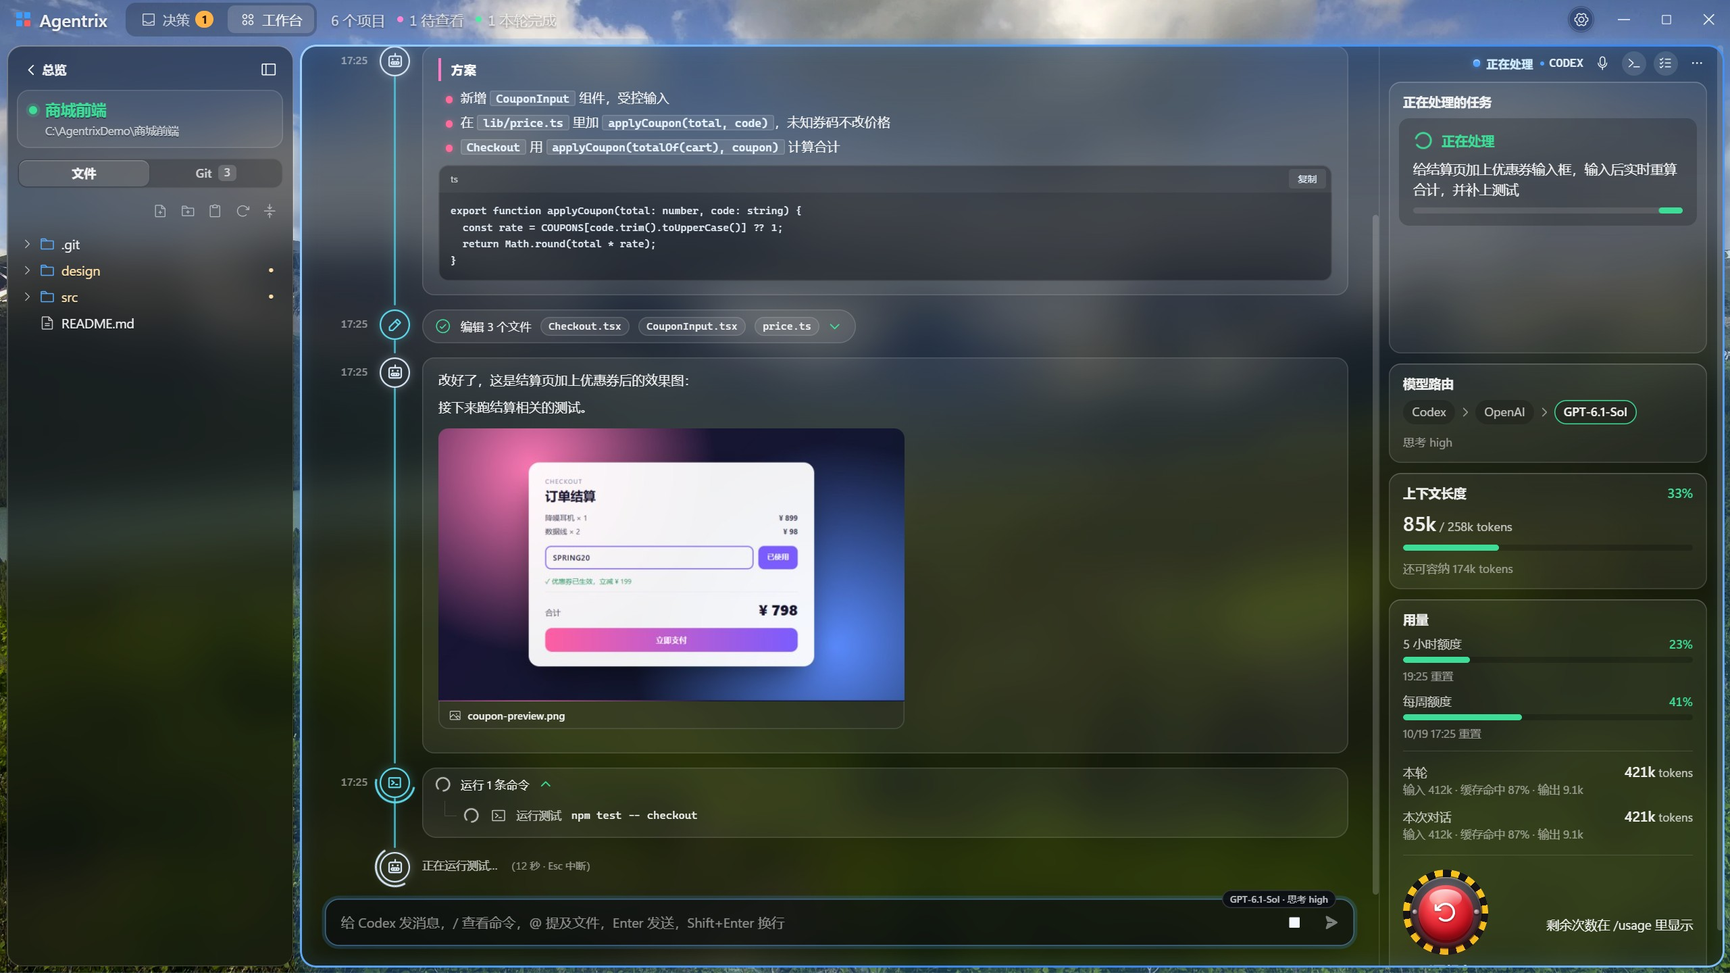
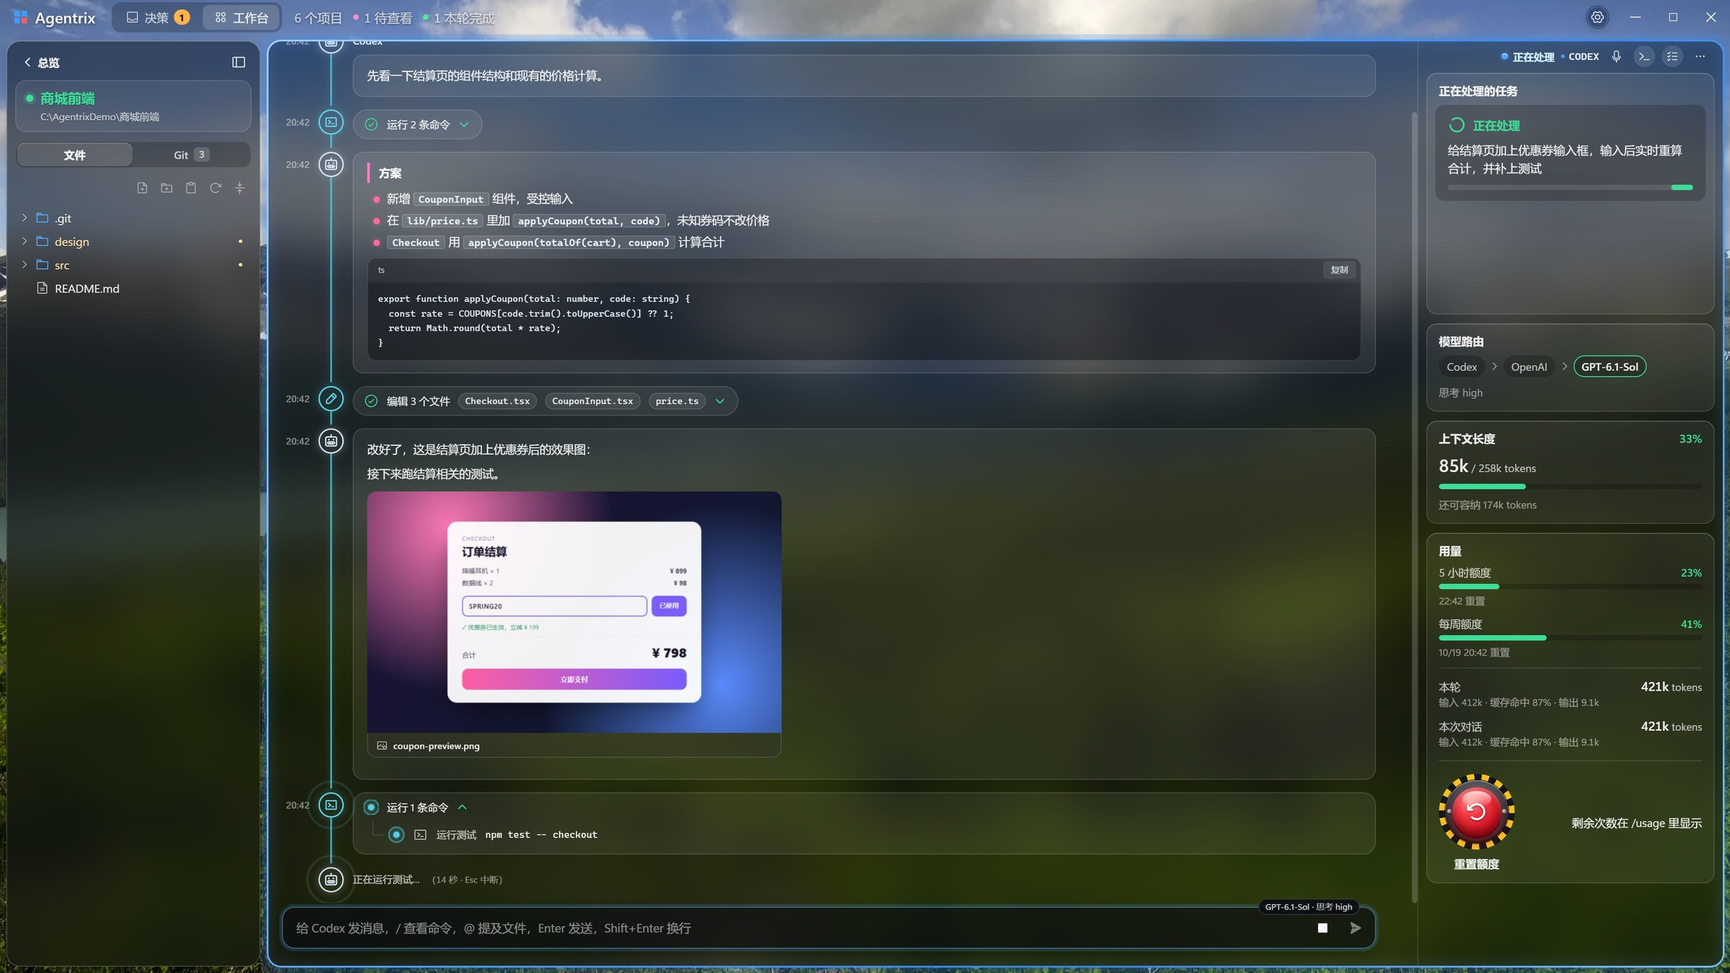
Release 1.2.15: a balanced reading column, running nodes that bloom and ripple, items that hop on hover
- The reading column is balanced: the time column fits its text and the gaps are tighter, the right side has more
  room (cards 95px from the left and 46px from the right instead of 120px and 24px), and the conversation, the
  choices, the command list and the composer share one pair of inset variables so their edges line up; the
  conversation's scrollbar gutter is always reserved.
- Running nodes no longer spin a border: Claude's spark blooms like Claude Code's own spinner, its rays bursting
  from the hub and drawing back; other running nodes, and the running state inside a tool card, send out soft rings.
- Passing the pointer over a timeline item makes its card hop (12px, a small second bounce, then it lands). The hover
  is the step's row, so a hopping card never restarts itself; hops are armed by pointer movement and disarmed by a
  scroll, so items sliding under a still pointer stay put. Motion off stops all of it.
- The design-polish skill records the lessons: no spinning borders, the hover hop, balancing a gutter.

Changed region(s): [[0.0, 0.0, 0.9996, 1.0], [0.0, 0.2188, 0.0625, 0.3438], [0.3749, 0.8125, 0.4061, 0.8438]]

diff --git a/src/features/reading/reading-flow.css b/src/features/reading/reading-flow.css
@@ -8,7 +8,7 @@
   --flow-claude: #e8875f; --flow-codex: #d7e6f5;
   --flow-rail: #4fd3e8; --flow-rail-glow: rgba(79, 211, 232, .45); --flow-step: #5fd8ec;
   --flow-user: #5ea6ff;
-  --step-time: 42px; --step-node: 30px; --step-gap: 12px;
+  --step-time: calc(36px * var(--reading-text)); --step-node: 28px; --step-gap: 10px;
 }
 :root:is([data-theme="mono-amber"], [data-theme="mono-amber-dark"]) .reading-view {
   --flow-card: var(--theme-hover); --flow-line: var(--theme-line); --flow-ink: var(--theme-ink); --flow-muted: var(--theme-muted); --flow-faint: var(--theme-muted);
@@ -35,23 +35,52 @@
 .reading-step.is-claude .reading-node { --node-tint: var(--flow-claude); }
 .reading-step.is-codex .reading-node { --node-tint: var(--flow-codex); }
 .reading-spark line { stroke: currentColor; stroke-width: 2.4; stroke-linecap: round; }
-/* A node whose steps still run turns an arc around it; one that failed is marked red. */
-.reading-step.is-running .reading-node::after { content: ''; position: absolute; inset: -5px; border-radius: 50%; border: 2px solid transparent; border-top-color: var(--node-tint); border-right-color: var(--node-tint); animation: reading-node-turn 1s linear infinite; }
-@keyframes reading-node-turn { to { transform: rotate(360deg); } }
+/* A node whose steps still run sends soft rings out from its rim, one after another, fading as they spread. Claude's
+   spark instead blooms like Claude Code's own ✻ spinner: all its rays burst out from the hub and draw slowly back, the
+   slanted ones a beat behind, its glow swelling with them, like a small firework. One that failed is marked red. */
+.reading-step.is-running .reading-node::before, .reading-step.is-running .reading-node::after { content: ''; position: absolute; inset: 0; border-radius: 50%;
+  box-shadow: 0 0 0 1.5px var(--node-tint); opacity: 0; pointer-events: none; animation: reading-node-ripple 2.4s cubic-bezier(.2, .6, .35, 1) infinite; }
+.reading-step.is-running .reading-node::after { animation-delay: 1.2s; }
+@keyframes reading-node-ripple { 0% { transform: scale(1); opacity: .75; } 100% { transform: scale(1.9); opacity: 0; } }
+.reading-step.is-claude.is-running .reading-node::before, .reading-step.is-claude.is-running .reading-node::after { content: none; }
+.reading-step.is-claude.is-running .reading-node { animation: reading-node-glow 1.8s ease-in-out infinite; }
+@keyframes reading-node-glow { 30% { box-shadow: inset 0 0 0 1.5px var(--node-tint), 0 0 20px color-mix(in srgb, var(--node-tint) 60%, transparent); } }
+.reading-step.is-running .reading-spark line { transform-box: view-box; transform-origin: 12px 12px; vector-effect: non-scaling-stroke; animation: reading-spark-bloom 1.8s infinite; }
+.reading-step.is-running .reading-spark g:nth-child(even) line { animation-delay: .12s; }
+@keyframes reading-spark-bloom {
+  0% { transform: scale(.22); animation-timing-function: cubic-bezier(.2, .9, .3, 1.15); }
+  30% { transform: scale(1); animation-timing-function: cubic-bezier(.5, 0, .5, 1); }
+  100% { transform: scale(.22); } }
 .reading-step.is-failed .reading-node { --node-tint: var(--flow-fail); }
 .reading-step-body { min-width: 0; display: flex; flex-direction: column; gap: 6px; }
 .reading-step-label { padding-top: 4px; font-size: calc(13.5px * var(--reading-text)); font-weight: 600; color: var(--flow-ink); }
 /* The working line ends the timeline beside its node, without a mark of its own. */
 .reading-step.is-working .reading-status { margin: 5px 0 0; }
 .reading-step .reading-status-mark { display: none; }
-:root[data-motion="off"] .reading-step.is-running .reading-node::after { animation: none; }
-@media (prefers-reduced-motion: reduce) { :root[data-motion="system"] .reading-step.is-running .reading-node::after { animation: none; } }
+:root[data-motion="off"] .reading-step.is-running :is(.reading-node, .reading-node::before, .reading-node::after, .reading-spark line) { animation: none; }
+@media (prefers-reduced-motion: reduce) { :root[data-motion="system"] .reading-step.is-running :is(.reading-node, .reading-node::before, .reading-node::after, .reading-spark line) { animation: none; } }
 /* A narrow card keeps the line and its nodes, not the times. */
 @container (max-width: 520px) {
   .reading-step { grid-template-columns: var(--step-node) minmax(0, 1fr); column-gap: 10px; }
   .reading-step > time { display: none; }
   .reading-step::before { left: calc(var(--step-node) / 2 - 1px); }
 }
+
+/* The pointer passing over a step makes its card hop: up 12px, down, a small second bounce, then it lands where it was.
+   The hover is the step's row, which never moves, so a card hopping out from under the pointer does not restart it.
+   Only the pointer moving makes a step hop: a scroll disarms them until it moves again ([data-hover]), so the steps
+   sliding under a still pointer stay put; with motion turned off nothing hops. */
+.reading-scroll[data-hover] .reading-step:hover > .reading-step-body > :is(.reading-user, .reading-assistant, .reading-tools) { animation: reading-hop .75s both; }
+@keyframes reading-hop {
+  0% { transform: translateY(0); animation-timing-function: cubic-bezier(.2, .75, .35, 1); }
+  32% { transform: translateY(-12px); animation-timing-function: cubic-bezier(.55, 0, .85, .45); }
+  56% { transform: translateY(0); animation-timing-function: cubic-bezier(.2, .75, .35, 1); }
+  72% { transform: translateY(-4px); animation-timing-function: cubic-bezier(.55, 0, .85, .45); }
+  86% { transform: translateY(0); animation-timing-function: ease-out; }
+  93% { transform: translateY(-1px); animation-timing-function: ease-in; }
+  100% { transform: translateY(0); } }
+:root[data-motion="off"] .reading-step:hover > .reading-step-body > * { animation: none; }
+@media (prefers-reduced-motion: reduce) { :root[data-motion="system"] .reading-step:hover > .reading-step-body > * { animation: none; } }
 
 /* Your message: a frosted card beside its person. */
 .reading-user { align-self: stretch; display: flex; flex-direction: column; gap: 4px; padding: 10px 16px;
@@ -77,7 +106,11 @@
 .reading-tools-lead { flex: none; color: var(--flow-lead); }
 .reading-tools-caret { flex: none; color: var(--flow-ok); }
 .reading-step-state { flex: none; color: var(--flow-ok); }
-.reading-step-state.is-running { color: var(--flow-muted); }
+.reading-step-state.is-running { position: relative; display: grid; place-items: center; width: 17px; height: 17px; color: var(--flow-rail); }
+.reading-step-state.is-running::before { content: ''; width: 7px; height: 7px; border-radius: 50%; background: currentColor; box-shadow: 0 0 6px currentColor; }
+.reading-step-state.is-running::after { content: ''; position: absolute; inset: 3px; border-radius: 50%; box-shadow: 0 0 0 1.5px currentColor; opacity: 0; animation: reading-node-ripple 2s cubic-bezier(.2, .6, .35, 1) infinite; }
+:root[data-motion="off"] .reading-step-state.is-running::after { animation: none; }
+@media (prefers-reduced-motion: reduce) { :root[data-motion="system"] .reading-step-state.is-running::after { animation: none; } }
 .reading-step-state.is-failed { color: var(--flow-fail); }
 /* The steps as a tree under the pill. */
 .reading-tools-tree { position: relative; display: flex; flex-direction: column; gap: 2px; margin: 0 0 0 22px; padding: 2px 14px 10px 18px; list-style: none; }

diff --git a/src/features/reading/ReadingView.tsx b/src/features/reading/ReadingView.tsx
@@ -1,7 +1,7 @@
 import { useEffect, useLayoutEffect, useMemo, useRef, useState, type ClipboardEvent, type KeyboardEvent, type ReactNode } from 'react';
 import { readingMarked } from './markdown-escape';
 import createDOMPurify from 'dompurify';
-import { ArrowDown, CaretDown, CaretUp, CheckCircle, CircleNotch, FileText, Globe, Image as ImageIcon, MagnifyingGlass, PaperPlaneRight, PencilSimple, Plugs, Question, Robot, Sparkle, Stop, TerminalWindow, User as UserIcon, Wrench, X, XCircle, type Icon } from '@phosphor-icons/react';
+import { ArrowDown, CaretDown, CaretUp, CheckCircle, FileText, Globe, Image as ImageIcon, MagnifyingGlass, PaperPlaneRight, PencilSimple, Plugs, Question, Robot, Sparkle, Stop, TerminalWindow, User as UserIcon, Wrench, X, XCircle, type Icon } from '@phosphor-icons/react';
 import type { AgentCommand, ConversationEntry, ProjectTerminal } from '../../shared/types';
 import { actionText, stepVerb } from '../agents/action-text';
 import { dictateInto } from '../voice/voice-input';
@@ -203,9 +203,10 @@ function ToolGroup({ entries, live, projectId, onError }: { entries: Conversatio
     {files.length > 0 && <FileCards projectId={projectId} files={files} renderMarkdown={text => <Markdown text={text} />} onError={onError} />}
   </div>;
 }
-// A step's state: a ring while it runs, a check when it is done, a cross when it failed.
+// A step's state: a dot sending out a soft ring while it runs (as its node on the line does), a check when it is done,
+// a cross when it failed.
 function StepState({ running, failed, filled = false }: { running: boolean; failed: boolean; filled?: boolean }) {
-  if (running) return <CircleNotch size={17} weight="bold" className="reading-step-state is-running loading-spinner" aria-label={t('进行中')} />;
+  if (running) return <span className="reading-step-state is-running" role="img" aria-label={t('进行中')} />;
   return failed ? <XCircle size={17} weight="fill" className="reading-step-state is-failed" aria-label={t('失败')} />
     : <CheckCircle size={17} weight={filled ? 'fill' : 'regular'} className="reading-step-state" aria-label={t('已完成')} />;
 }
@@ -280,6 +281,15 @@ export function ReadingView({ projectId, terminal, remote = false, autoFocus, on
   const inputBlocked = (hasChoice && !commandChoice) || unreadQuestion;
   const conversation = conversationKey(terminal.id, terminal.sessionId);
   const { stuck, unseen, toBottom, ready, holdPosition } = useStickToBottom(scroller, content, visibleEntries, conversation);
+  // A step hops only when the pointer moves onto it: moving arms the hops, any scroll disarms them until it moves again,
+  // so the steps sliding under a still pointer stay put (marked on the element itself, without a render).
+  useEffect(() => {
+    const node = scroller.current; if (!node) return;
+    const onMove = () => { if (!('hover' in node.dataset)) node.dataset.hover = ''; };
+    const onScroll = () => { if ('hover' in node.dataset) delete node.dataset.hover; };
+    node.addEventListener('pointermove', onMove, { passive: true }); node.addEventListener('scroll', onScroll, { passive: true });
+    return () => { node.removeEventListener('pointermove', onMove); node.removeEventListener('scroll', onScroll); };
+  }, [conversation]);
   useLayoutEffect(() => { if (caret.current !== null) { input.current?.setSelectionRange(caret.current, caret.current); caret.current = null; } });
   useEffect(() => { if (draft.startsWith('/') || !entries.length) setRequested(true); }, [draft, entries.length]);
   // Capture composer ownership before disabling it; another card's focus must stay where it is.

diff --git a/src/features/reading/reading.css b/src/features/reading/reading.css
@@ -1,10 +1,10 @@
 /* The reading view: the agent's conversation laid out as a document over the terminal it belongs to. */
 /* The reading view's text is this share of the size each rule names (font sizes here and in the other reading styles). */
 :root { --reading-text: .85; }
-.reading-view { position: absolute; inset: 0; z-index: 2; display: flex; flex-direction: column; min-height: 0; background: rgba(6, 16, 26, .22); }
+.reading-view { --reading-left: 12px; --reading-right: 30px; position: absolute; inset: 0; z-index: 2; display: flex; flex-direction: column; min-height: 0; background: rgba(6, 16, 26, .22); }
 .terminal-split-body:has(> .reading-view) .terminal-host { visibility: hidden; }
 .reading-scroll-area { position: relative; flex: 1; min-height: 0; display: flex; }
-.reading-scroll { flex: 1; min-width: 0; min-height: 0; overflow: auto; padding: 14px 18px 8px; display: flex; flex-direction: column; font: 400 calc(13px * var(--reading-text))/1.7 var(--font-ui); color: #e8f1fa; overscroll-behavior: contain; overflow-anchor: none; }
+.reading-scroll { flex: 1; min-width: 0; min-height: 0; overflow: auto; scrollbar-gutter: stable; padding: 14px calc(var(--reading-right) - 6px) 8px var(--reading-left); display: flex; flex-direction: column; font: 400 calc(13px * var(--reading-text))/1.7 var(--font-ui); color: #e8f1fa; overscroll-behavior: contain; overflow-anchor: none; }
 .reading-content { flex: 1 0 auto; min-width: 0; display: flex; flex-direction: column; gap: 10px; }
 .reading-earlier.text-button { align-self: center; flex: none; font-size: calc(12px * var(--reading-text)); }
 .reading-latest { position: absolute; right: 18px; bottom: 12px; display: flex; align-items: center; gap: 8px; }
@@ -97,12 +97,13 @@
 .reading-attachments { display: flex; align-items: center; gap: 6px; margin: 0 14px 6px; font-size: calc(12px * var(--reading-text)); color: #bfe3ff; }
 .reading-composer .icon-button { flex: none; width: 30px; height: 30px; border-radius: 4.5px; }
 .reading-send:not(:disabled) { color: #ffffff; background: rgba(143, 203, 255, .28); }
-.has-splits .reading-scroll { padding: 10px 12px 6px; }
+.has-splits .reading-view { --reading-left: 8px; --reading-right: 22px; }
+.has-splits .reading-scroll { padding-top: 10px; padding-bottom: 6px; }
 .reading-composer textarea:focus-visible { outline: none; box-shadow: none; }
 .reading-composer textarea:disabled { opacity: .5; }
 
 /* Native CLI prompts remain above the input until the CLI dismisses them. */
-.reading-choice-host { flex: 0 1 auto; min-height: 0; margin: 0 12px 8px; overflow: auto; }
+.reading-choice-host { flex: 0 1 auto; min-height: 0; margin: 0 var(--reading-right) 8px var(--reading-left); overflow: auto; }
 .reading-choice { --choice-accent: var(--theme-accent, #8fcbff); padding: 10px; border-radius: 6px; background: var(--glass-sheen), rgba(3, 12, 20, .65); box-shadow: inset 2px 0 0 var(--choice-accent), inset 0 0 0 1px rgba(255, 255, 255, .12); max-height: min(45vh, 380px); overflow: auto; color: #e8f1fa; font-size: calc(12px * var(--reading-text)); }
 .reading-choice.is-permission { --choice-accent: #ff7ac6; }
 .reading-choice:focus-visible { outline: 1px solid var(--choice-accent); outline-offset: -1px; }

diff --git a/src/shared/styles/clarity.css b/src/shared/styles/clarity.css
@@ -95,7 +95,9 @@
 
 /* 3. The reading view: body text at 15px (13.5px in a small card), cards 14px apart and 24px from the pane's edge. */
 :root[data-theme] .reading-scroll { font: 400 calc(14px * var(--reading-text))/1.65 var(--font-ui); color: var(--ink); }
-:root[data-theme] .focus-mode .reading-scroll { font-size: calc(15px * var(--reading-text)); padding: 18px 24px 12px; }
+/* Less room on the left, where the times and nodes stand, more on the right, so the cards sit balanced. */
+:root[data-theme] .focus-mode .reading-view { --reading-left: 16px; --reading-right: 46px; }
+:root[data-theme] .focus-mode .reading-scroll { font-size: calc(15px * var(--reading-text)); padding-top: 18px; padding-bottom: 12px; }
 :root[data-theme] .reading-content { gap: 14px; }
 /* Only the reader's own messages sit on a card, so they are easy to find when scrolling back; tool calls and
    command results read as part of the answer. */
@@ -114,11 +116,10 @@
 :root[data-theme] .reading-choice-hint { color: var(--ink-faint); }
 /* The status line and the message box: a deeper, raised field, set 16px apart from the conversation. */
 :root[data-theme] .reading-status { color: var(--ink-secondary); }
-:root[data-theme] .reading-composer { margin: 4px 16px 16px; padding: 8px 8px 8px 16px; border-radius: 14px; background: rgba(8, 11, 17, .62); box-shadow: inset 0 0 0 1px rgba(255, 255, 255, .16), 0 10px 28px -8px rgba(0, 0, 0, .45); }
-:root[data-theme] .focus-mode .reading-composer { margin: 4px 24px 20px; }
+:root[data-theme] .reading-composer { margin: 4px var(--reading-right) 16px var(--reading-left); padding: 8px 8px 8px 16px; border-radius: 14px; background: rgba(8, 11, 17, .62); box-shadow: inset 0 0 0 1px rgba(255, 255, 255, .16), 0 10px 28px -8px rgba(0, 0, 0, .45); }
+:root[data-theme] .focus-mode .reading-composer { margin-bottom: 20px; }
 /* The slash command list lines up with the message box below it. */
-:root[data-theme] .reading-commands.is-inline { margin: 4px 16px 4px; border-radius: 14px; }
-:root[data-theme] .focus-mode .reading-commands.is-inline { margin: 4px 24px 4px; }
+:root[data-theme] .reading-commands.is-inline { margin: 4px var(--reading-right) 4px var(--reading-left); border-radius: 14px; }
 :root[data-theme] .reading-composer:focus-within { box-shadow: inset 0 0 0 1px rgba(120, 190, 255, .5), 0 0 0 3px rgba(59, 158, 255, .18), 0 10px 28px -8px rgba(0, 0, 0, .45); }
 :root[data-theme] .reading-composer textarea { color: var(--ink); font-weight: 400; }
 :root[data-theme] .reading-composer textarea::placeholder { color: var(--ink-faint); }

diff --git a/src/features/reading/Timeline.tsx b/src/features/reading/Timeline.tsx
@@ -19,8 +19,9 @@ export function TimelineStep({ at, kind, mark, quiet = false, state, agent, chil
 }
 
 // Claude Code's ✻ drawn as an icon rather than a font's glyph: eight rounded rays from one hub on a 24-unit grid, the stroke of the
-// icons beside it, so it stays sharp and centred at any size.
+// icons beside it, so it stays sharp and centred at any size. Each ray sits in a group turned to its angle, so the ray
+// itself can grow from the hub and shrink back while Claude works.
 const RAYS = Array.from({ length: 8 }, (_, ray) => ray * 45);
 export const ClaudeSpark = ({ size = 16 }: { size?: number }) => <svg className="reading-spark" width={size} height={size} viewBox="0 0 24 24" aria-hidden="true">
-  {RAYS.map(angle => <line key={angle} x1="12" y1="12" x2="12" y2="3.2" transform={`rotate(${angle} 12 12)`} />)}
+  {RAYS.map(angle => <g key={angle} transform={`rotate(${angle} 12 12)`}><line x1="12" y1="12" x2="12" y2="3.2" /></g>)}
 </svg>;

diff --git a/src/features/guide/guide.ts b/src/features/guide/guide.ts
@@ -1,6 +1,7 @@
 // What the usage guide's last page lists for this release. Update it with every version: the guide opens on
 // first use and after each update, on this page for people who are updating.
 export const WHATS_NEW: string[] = [
-  '阅读视图时间轴上的节点改为镂空细圈：壁纸透过节点可见，图标和细圈用各自的颜色（你是蓝色，Claude 是橙色，Codex 是白色，操作步骤是青色）。',
-  'Claude Code 的节点标志改为清晰的矢量星芒，任何大小都不再模糊。',
+  '阅读视图左右留白更均衡：左边的时间和节点更紧凑，右边留出更多空间，消息框和卡片左右对齐。',
+  '运行中的节点不再转圈：Claude 的星芒像 Claude Code 自己的 ✻ 一样绽放、收回，其他步骤向外扩散柔和的光圈。',
+  '鼠标划过时间轴上的条目时，条目会轻快地跳一下；滚动时不会跳。',
 ];

diff --git a/skills/design-polish/SKILL.md b/skills/design-polish/SKILL.md
@@ -58,6 +58,21 @@ Open every image before showing it. Present them all, one line each on what sets
   rejected it. A line joining them runs from rim to rim, never through a see-through mark. Rays meeting at a centre
   (an asterisk) start at the centre, or their round caps leave a dark speck.
 
+- **Motion for "busy" never spins a border** (the user calls it cheap). A running mark sends soft rings out from its
+  rim, fading as they spread (two, half a cycle apart); Claude's spark blooms like Claude Code's own ✻ spinner, all
+  rays bursting from the hub and drawing slowly back. To animate parts of an SVG glyph, wrap each part in a `<g>` that
+  carries its rotation, so the CSS transform on the part does not replace it (`transform-box: view-box`,
+  `transform-origin` at the hub, `vector-effect: non-scaling-stroke`). Check motion with a strip of clip screenshots
+  taken 100ms apart, and stop every loop under `data-motion="off"` and reduced motion.
+- **A hover hop** (the user wanted items to "jump" when the pointer passes, no glow): a one-shot keyframe on the card,
+  up about 12px, down, a small second bounce, landing at 0. Hang the `:hover` on the row that does not move, never on the
+  moving card, or a card hopping out from under the pointer restarts forever. Arm hops on `pointermove` and disarm them
+  on `scroll` (a data attribute on the scroller), or every item sliding under a still pointer hops while scrolling and
+  right after. Check with a probe sampling the card's `translateY` every 50ms.
+- **Balance a column with a gutter.** Measure the room left and right of the cards in CSS pixels in a probe; a timeline's
+  times and nodes read as margin, so take room from them and give the right side more. Everything in the column
+  (conversation, choices, command list, composer) shares one pair of inset variables, so the edges line up.
+
 ## 5. Make it crisp
 
 - Whole-pixel sizes and positions.

diff --git a/docs/usage.md b/docs/usage.md
@@ -244,20 +244,20 @@ curl -fsSL https://raw.githubusercontent.com/noeigenstate/Agentrix/main/scripts/
 
 可以在管道后的 `bash` 前设置这些变量：
 
-- `AGENTRIX_VERSION=1.2.14`：安装指定版本。
+- `AGENTRIX_VERSION=1.2.15`：安装指定版本。
 - `AGENTRIX_INSTALL_DIR=~/Applications`：指定安装目录。
 - `AGENTRIX_OPEN=0`：安装后不打开应用。
 
-例如，安装 1.2.14：
+例如，安装 1.2.15：
 
 ```bash
-curl -fsSL https://raw.githubusercontent.com/noeigenstate/Agentrix/main/scripts/install-macos.sh | AGENTRIX_VERSION=1.2.14 bash
+curl -fsSL https://raw.githubusercontent.com/noeigenstate/Agentrix/main/scripts/install-macos.sh | AGENTRIX_VERSION=1.2.15 bash
 ```
 
 如果已经下载了 ZIP，也可以用本地的安装脚本安装：
 
 ```bash
-bash install-macos.sh ~/Downloads/Agentrix-1.2.14-mac-arm64.zip
+bash install-macos.sh ~/Downloads/Agentrix-1.2.15-mac-arm64.zip
 ```
 
 应用使用临时签名（ad-hoc），没有 Apple Developer ID，也未经过 Apple 公证。如果用浏览器下载 DMG，再将应用拖到「应用程序」，首次打开时 macOS 会提示「无法验证开发者」。在「系统设置 › 隐私与安全性」中点一次「仍要打开」，或运行：
